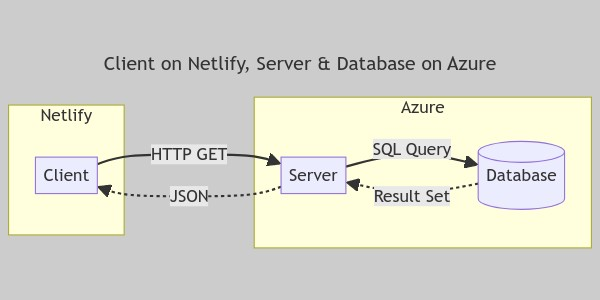
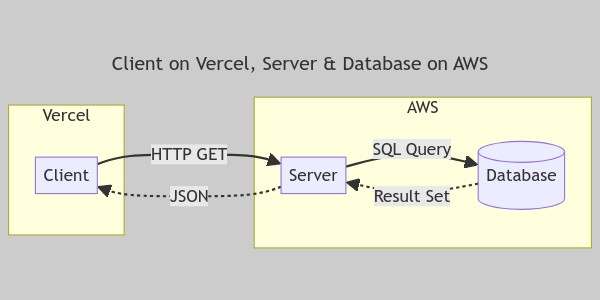
run examples again and copied output in assets

Changed region(s): [[0.15, 0.18, 0.84, 0.24], [0.66, 0.33, 0.75, 0.39], [0.06, 0.36, 0.15, 0.42]]

diff --git a/examples/examples.py b/examples/examples.py
@@ -73,11 +73,11 @@ mmp.show_image_pyplot(jpeg2)
 
 diagram3_text = '''
 flowchart LR
-    subgraph Azure
+    subgraph AWS
         s[Server]
         db[(Database)]
     end
-    subgraph Netlify
+    subgraph Vercel
         c[Client]
     end
 
@@ -86,7 +86,7 @@ flowchart LR
     db -. Result Set .-> s
     s -- SQL Query --> db
 '''    
-jpeg3 = mmp.get_mermaid_diagram('jpeg','Client on Netlify, Server & Database on Azure', diagram3_text, 'default',{'bgColor': 'cccccc','width':'600px','height':'300'})
+jpeg3 = mmp.get_mermaid_diagram('jpeg','Client on Vercel, Server & Database on AWS', diagram3_text, 'default',{'bgColor': 'cccccc','width':'600px','height':'300'})
 mmp.save_diagram_as_image('output/jpeg3.jpeg', jpeg3)
 mmp.show_image_pyplot(jpeg3)
 

diff --git a/README.md b/README.md
@@ -41,7 +41,7 @@ The following functions are meant to be used from the calling program (other fun
 
 The mermaidpy functions allow you to specify various options as key-value pairs. For the details of available mermaid.ink options, see https://mermaid.ink/ and for mermaid configuration options, see https://mermaid.js.org/config/schema-docs/config.html
 
-For a detailed help description on mermaidpy, execute `help(mm)` after importing it as pmm
+For a detailed help description on mermaidpy, execute `help(mmp)` after importing it as mmp
 
 
 ## Technologies-Used
@@ -164,7 +164,7 @@ The following examples demonstrate the use of mermaidpy functions for requesting
 ### Example 1 : A Simple Flowchart
 
 ```python
-import mermaidpy as pmm
+import mermaidpy as mmp
 
 # define the diagram code/text as per Mermaid.js docs.
 
@@ -212,9 +212,9 @@ diagram1_text_plus_styles = diagram1_text + styles
 # Note that only following three function calls from mermaidpy to get, save and display the diagram.
 # The names of the functions clearly describe their functionalities.
 
-jpeg1 = pmm.get_mermaid_diagram('jpeg','Organization Structure', diagram1_text_plus_styles)
-pmm.save_diagram_as_image('jpeg1.jpeg', jpeg1)
-pmm.show_image_pyplot(jpeg1)
+jpeg1 = mmp.get_mermaid_diagram('jpeg','Organization Structure', diagram1_text_plus_styles)
+mmp.save_diagram_as_image('jpeg1.jpeg', jpeg1)
+mmp.show_image_pyplot(jpeg1)
 ```
 
 The result of the above code is given below:
@@ -226,7 +226,7 @@ The result of the above code is given below:
 ### Example 2 : Git Commits Diagram
 
 ```python
-import mermaidpy as pmm
+import mermaidpy as mmp
 
 # define the diagram code/text as per Mermaid.js docs.
 
@@ -246,9 +246,9 @@ diagram2_text = '''
        commit
 '''
 
-jpeg2 = pmm.get_mermaid_diagram('jpeg','Git Diagram', diagram2_text, 'default',{'bgColor': 'dbeafe','width':'600px','height':'300'})
-pmm.save_diagram_as_image('jpeg2.jpeg', jpeg2)
-pmm.show_image_pyplot(jpeg2)
+jpeg2 = mmp.get_mermaid_diagram('jpeg','Git Diagram', diagram2_text, 'default',{'bgColor': 'dbeafe','width':'600px','height':'300'})
+mmp.save_diagram_as_image('jpeg2.jpeg', jpeg2)
+mmp.show_image_pyplot(jpeg2)
 ```
 
 The result of the above code is given below:
@@ -260,7 +260,7 @@ The result of the above code is given below:
 ### Example 3 : Client-Server Interaction
 
 ```python
-import mermaidpy as pmm
+import mermaidpy as mmp
 
 # define the diagram code/text as per Mermaid.js docs.
 
@@ -279,9 +279,9 @@ flowchart LR
     db -. Result Set .-> s
     s -- SQL Query --> db
 '''    
-jpeg3 = pmm.get_mermaid_diagram('jpeg','Client on Netlify, Server & Database on Azure', diagram3_text, 'default',{'bgColor': 'cccccc','width':'600px','height':'300'})
-pmm.save_diagram_as_image('jpeg3.jpeg', jpeg3)
-pmm.show_image_pyplot(jpeg3)
+jpeg3 = mmp.get_mermaid_diagram('jpeg','Client on Netlify, Server & Database on Azure', diagram3_text, 'default',{'bgColor': 'cccccc','width':'600px','height':'300'})
+mmp.save_diagram_as_image('jpeg3.jpeg', jpeg3)
+mmp.show_image_pyplot(jpeg3)
 ```
 
 The result of the above code is given below:
@@ -293,7 +293,7 @@ The result of the above code is given below:
 ### Example 4 : A Customer-Cashier Interaction Sequence Diagram
 
 ```python
-import mermaidpy as pmm
+import mermaidpy as mmp
 
 # define the diagram code/text as per Mermaid.js docs.
 
@@ -316,9 +316,9 @@ sequenceDiagram
   end
 '''
 
-jpeg4 = pmm.get_mermaid_diagram('jpeg','Customer-Cashier Interaction', diagram4_text, {'primaryColor':'#fcd34d'},{'bgColor':'fef3c7', 'height':'500'})
-pmm.save_diagram_as_image('jpeg4.jpeg', jpeg4)
-pmm.show_image_pyplot(jpeg4)
+jpeg4 = mmp.get_mermaid_diagram('jpeg','Customer-Cashier Interaction', diagram4_text, {'primaryColor':'#fcd34d'},{'bgColor':'fef3c7', 'height':'500'})
+mmp.save_diagram_as_image('jpeg4.jpeg', jpeg4)
+mmp.show_image_pyplot(jpeg4)
 ```
 
 
@@ -331,7 +331,7 @@ The result of the above code is given below:
 ### Example 5 : A Simple Entity Relationship Diagram (ERD)
 
 ```python
-import mermaidpy as pmm
+import mermaidpy as mmp
 
 # define the diagram code/text as per Mermaid.js docs.
 
@@ -364,9 +364,9 @@ diagram5_text = '''
     }  
 '''   
 
-jpeg5 = pmm.get_mermaid_diagram('jpeg', 'Entity Relationship Diagram', diagram5_text,'forest', {'bgColor': 'e5e7eb', 'width': '400'})
-pmm.save_diagram_as_image('output/jpeg5.jpeg', jpeg5)
-pmm.show_image_pyplot(jpeg5)
+jpeg5 = mmp.get_mermaid_diagram('jpeg', 'Entity Relationship Diagram', diagram5_text,'forest', {'bgColor': 'e5e7eb', 'width': '400'})
+mmp.save_diagram_as_image('output/jpeg5.jpeg', jpeg5)
+mmp.show_image_pyplot(jpeg5)
 ```
 
 The result of the above code is given below:
